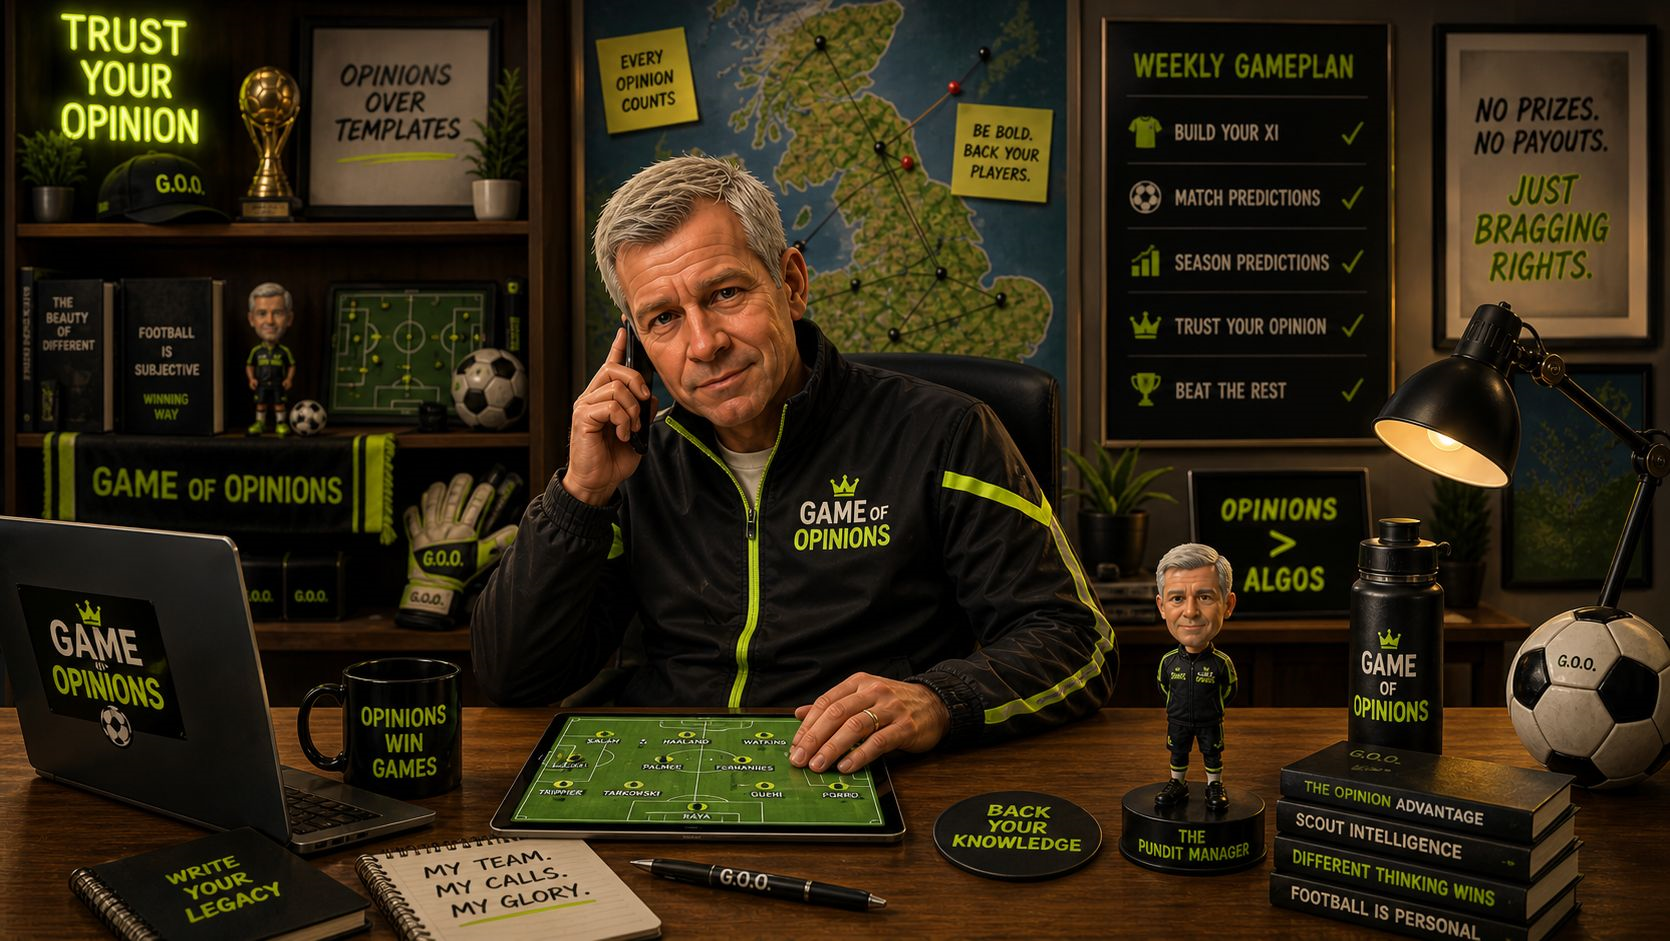
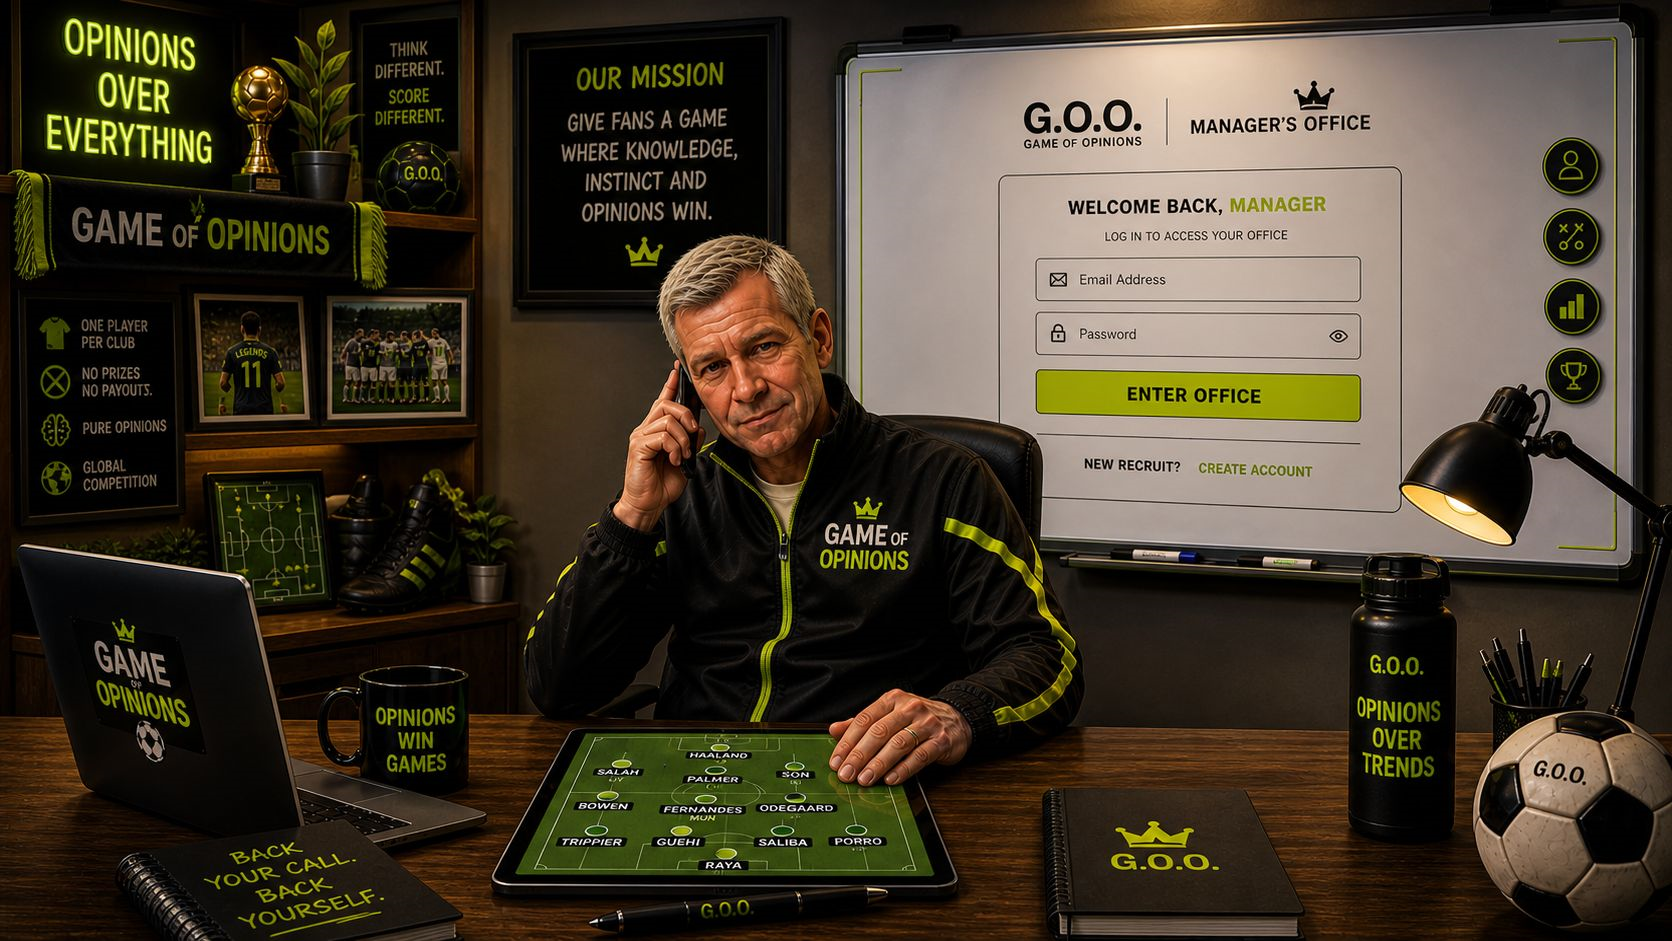
code added

diff --git a/index.html b/index.html
@@ -190,6 +190,70 @@ nav a:hover {
   padding: 20px;
 }
 
+/* MANAGER'S OFFICE STYLES */
+.office-section {
+  margin-top: 100px;
+  position: relative;
+  z-index: 10;
+  display: flex;
+  align-items: center;
+  justify-content: flex-end; /* Aligns the box to the whiteboard on the right */
+  min-height: 750px;
+  padding: 60px 12%; 
+  overflow: hidden;
+  background: url('managers office.png') no-repeat center center / cover;
+}
+
+.whiteboard-login {
+  width: 350px;
+  background: rgba(255, 255, 255, 0.98);
+  padding: 40px;
+  border-radius: 4px;
+  border: 1px solid #94a3b8;
+  box-shadow: 
+    2px 2px 0px rgba(0,0,0,0.1),
+    20px 20px 40px rgba(0,0,0,0.3);
+  position: relative;
+  z-index: 5;
+  text-align: center;
+  color: #0f172a;
+  transform: rotate(1.5deg); /* Perspective tilt to match a real whiteboard */
+  transition: all 0.3s cubic-bezier(0.4, 0, 0.2, 1);
+}
+
+.whiteboard-login:hover {
+  transform: rotate(0deg) scale(1.02);
+  box-shadow: 5px 5px 0px rgba(0,0,0,0.05), 25px 25px 50px rgba(0,0,0,0.4);
+}
+
+.whiteboard-login h2 {
+  margin-top: 0;
+  color: #0f172a;
+  font-size: 24px;
+  text-transform: uppercase;
+  letter-spacing: 1px;
+  font-weight: 900;
+  border-bottom: 4px solid #c7ff38;
+  padding-bottom: 12px;
+  margin-bottom: 25px;
+}
+
+.whiteboard-login input {
+  width: 100%;
+  padding: 15px;
+  margin-bottom: 15px;
+  border-radius: 4px;
+  border: 2px solid #e2e8f0;
+  background: #fff;
+  color: #1e293b;
+  font-size: 15px;
+  box-sizing: border-box;
+}
+.whiteboard-login input:focus {
+  border-color: #0f172a;
+  outline: none;
+}
+
 .auth-card {
   max-width: 400px;
   width: 100%;
@@ -878,20 +942,12 @@ nav a:hover {
   #login-section {
     flex-direction: column !important;
     height: auto !important;
-    min-height: auto !important;
+    min-height: 650px !important;
     margin-top: 0 !important;
-  }
-  .office-wall {
-    padding: 30px 15px !important;
+    justify-content: center !important;
     align-items: center !important;
-    text-align: center !important;
-    border: none !important;
-  }
-  .office-door-container {
-    width: 100% !important;
-    border-left: none !important;
-    border-right: none !important;
-    padding: 60px 0 !important;
+    padding: 60px 20px !important;
+    background-position: 75% center !important; /* Focal point shift for mobile */
   }
 
   nav {
@@ -1126,14 +1182,14 @@ nav a:hover {
 </header>
 
 <!-- ON-PAGE LOGIN SECTION -->
-<section id="login-section" style="margin-top: 100px; position: relative; z-index: 10; display: flex; align-items: flex-start; justify-content: flex-end; min-height: 600px; padding: 60px; overflow: hidden; background: url('managers office.png') no-repeat center center / cover;">
+<section id="login-section" class="office-section">
   <!-- The Login Card (on the whiteboard) -->
-  <div style="width: 320px; background: rgba(255, 255, 255, 0.98); padding: 35px; border-radius: 4px; border: 2px solid #cbd5e1; box-shadow: 5px 15px 30px rgba(0,0,0,0.3); position: relative; z-index: 5; text-align: center; color: #0f172a; transform: rotate(1deg);">
-    <h2 style="margin-top: 0; color: #0f172a; font-size: 22px; text-transform: uppercase; letter-spacing: 1px; font-weight: 900; border-bottom: 3px solid #c7ff38; padding-bottom: 10px; margin-bottom: 20px;">Manager's Office</h2>
+  <div class="whiteboard-login">
+    <h2>Manager's Office</h2>
     <p style="color: #64748b; margin-bottom: 20px; font-size: 14px; font-weight: bold;">Welcome Back Gaffer</p>
-    <input id="login-email" type="email" placeholder="Email Address" style="width: 100%; padding: 14px; margin-bottom: 12px; border-radius: 6px; border: 1px solid #e2e8f0; background: #fff; color: #1e293b; font-size: 14px; box-sizing: border-box;">
-    <input id="login-password" type="password" placeholder="Password" style="width: 100%; padding: 14px; margin-bottom: 20px; border-radius: 6px; border: 1px solid #e2e8f0; background: #fff; color: #1e293b; font-size: 14px; box-sizing: border-box;">
-    <button onclick="login()" style="width: 100%; padding: 14px; background: #1e293b; color: #c7ff38; font-weight: 800; border-radius: 6px; border: none; cursor: pointer; font-size: 14px; transition: 0.2s; letter-spacing: 1px;">Log In</button>
+    <input id="login-email" type="email" placeholder="Email Address">
+    <input id="login-password" type="password" placeholder="Password">
+    <button onclick="login()">Log In</button>
     <p style="font-size: 12px; color: #64748b; margin-top: 20px;">Have An Opinion? <a href="javascript:void(0)" onclick="openSignup()" style="color: #0f172a; text-decoration: underline; font-weight: bold;">Create Account</a></p>
   </div>
 </section>
